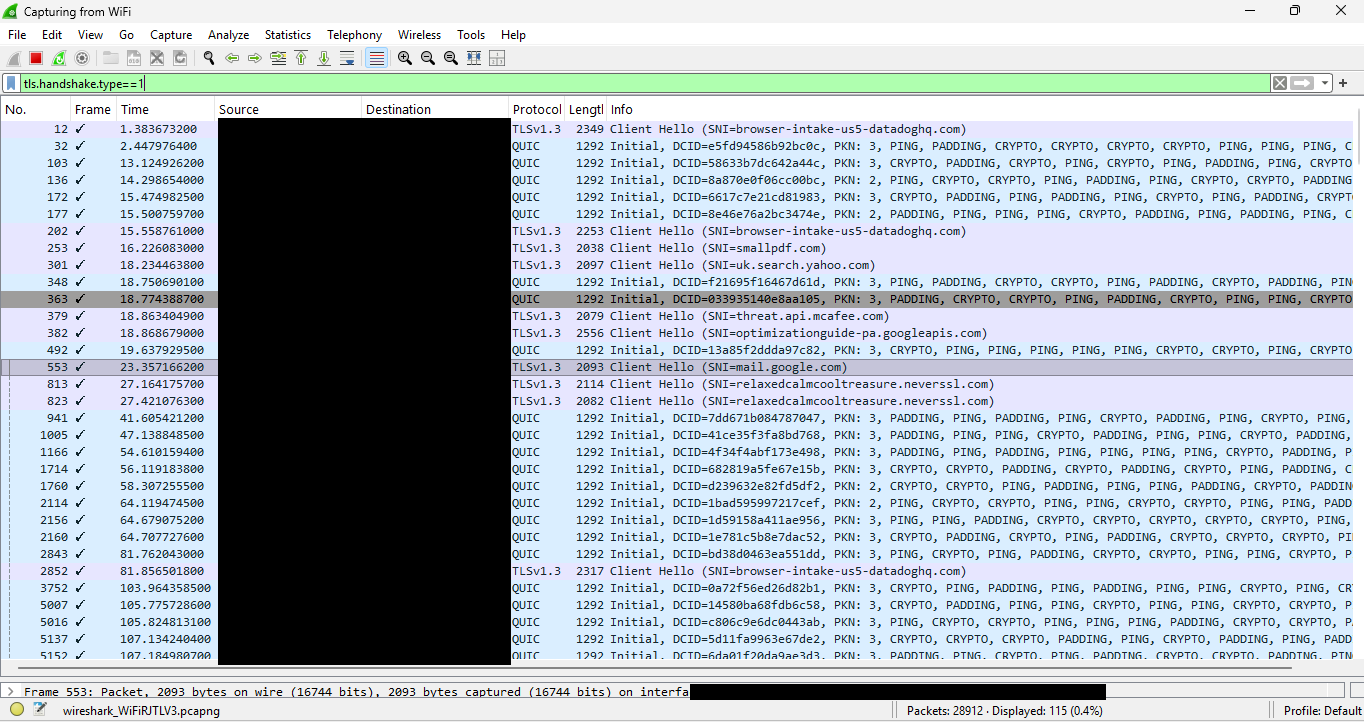
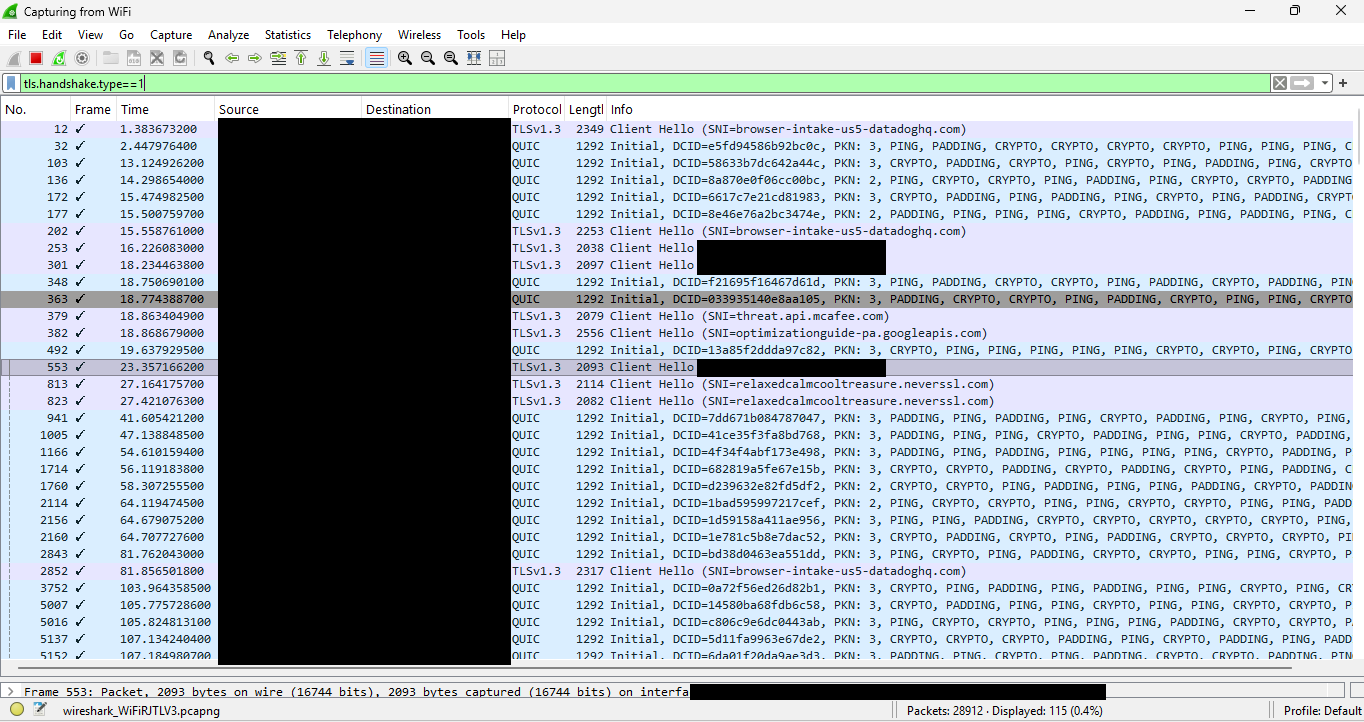
Add files via upload

Changed region(s): [[0.4927, 0.3352, 0.6466, 0.3961], [0.4927, 0.4875, 0.6466, 0.5485]]

diff --git a/README.md b/README.md
@@ -1,12 +1,14 @@
-What a Wireshark capture of my own laptop taught me about SOC work
+# What a Wireshark capture of my own laptop taught me about SOC work
 
 *Week 1 of my 90-day SOC analyst plan*
+
+By **Muhammad Ahmed Kamal** · [GitHub](https://github.com/Muhammad-Ahmed-Kamal)
 
 I spent my first week on networking fundamentals. The most useful part
 wasn't a course room. It was capturing my own traffic on a normal home
 network and asking what each pattern meant.
 
-1\. HTTPS hides content, not destinations
+## 1. HTTPS hides content, not destinations
 
 I visited a plain-HTTP test site (neverssl.com) and an HTTPS site in the
 same capture. Chrome itself warned me before sending anything.
@@ -24,12 +26,12 @@ shows.
 ***Figure 2.** The neverssl.com page as rendered by Chrome, flagged "Not
 secure".*
 
-Filtering for http showed the request and the server's reply as plain,
+Filtering for `http` showed the request and the server's reply as plain,
 readable packets.
 
 ![Wireshark packet list filtered to HTTP showing a GET and an HTTP 200 OK](fig03.png)
 
-***Figure 3.** The http filter: a GET request and the server's 200 OK
+***Figure 3.** The `http` filter: a GET request and the server's 200 OK
 response.*
 
 ![Wireshark HTTP packet list with GET, 301 Moved Permanently and 200 OK responses](fig04.png)
@@ -63,15 +65,15 @@ server packet, 1 turn.*
 ***Figure 8.** Raw bytes of the GET request: Host, User-Agent and Accept
 headers, all in cleartext.*
 
-By contrast, the same http filter on a browsing session that was
+By contrast, the same `http` filter on a browsing session that was
 entirely HTTPS returned nothing to read.
 
 ![Wireshark with http filter applied and an empty packet list](fig09.png)
 
-***Figure 9.** The http filter during an HTTPS-only session: empty.*
+***Figure 9.** The `http` filter during an HTTPS-only session: empty.*
 
 For the HTTPS connections, the content was encrypted. But filtering on
-tls.handshake.type==1 showed the destination domain of every connection
+`tls.handshake.type==1` showed the destination domain of every connection
 in the ClientHello's SNI field, sent in plaintext. A SOC can log or
 block by domain without decrypting anything, and an unfamiliar domain is
 a natural place to start an investigation.
@@ -81,7 +83,7 @@ a natural place to start an investigation.
 ***Figure 10.** TLS ClientHello packets: the SNI field names each
 destination even though the sessions are encrypted.*
 
-2\. A top talker isn't automatically suspicious
+## 2. A top talker isn't automatically suspicious
 
 In Statistics → Conversations, the Ethernet tab was dominated by one
 pair: my machine and my router, which makes sense because everything
@@ -112,14 +114,14 @@ beaconing).
 ***Figure 13.** Conversations, IPv6 tab sorted by bytes: the top talker
 is long-lived but low-volume.*
 
-3\. DNS visibility is shrinking
+## 3. DNS visibility is shrinking
 
-My dns filter showed queries and responses, each response paired to its
+My `dns` filter showed queries and responses, each response paired to its
 query by transaction ID, and some responses carrying several answers.
 
 ![Wireshark packet list filtered to DNS](fig14.png)
 
-***Figure 14.** The dns filter: standard queries and their responses.*
+***Figure 14.** The `dns` filter: standard queries and their responses.*
 
 ![Wireshark packet details showing UDP and DNS layers](fig15.png)
 
@@ -144,10 +146,10 @@ behavior and compare against a different network.
 
 ![Wireshark packet list filtered to TCP retransmissions](fig17.png)
 
-***Figure 17.** tcp.analysis.retransmission: repeated retransmissions on
+***Figure 17.** `tcp.analysis.retransmission`: repeated retransmissions on
 port 53.*
 
-4\. Know your tooling's quirks
+## 4. Know your tooling's quirks
 
 About two-thirds of my packets showed up under an 802.1Q VLAN tag, on a
 home network with no VLANs. This is most likely an artifact of the
@@ -174,7 +176,7 @@ the capture was running.*
 
 ![Wireshark with arp filter applied and an empty packet list](fig21.png)
 
-***Figure 21.** The arp filter on that capture: empty.*
+***Figure 21.** The `arp` filter on that capture: empty.*
 
 With the capture started first, the ARP broadcasts showed up. Wireshark
 only sees what happens while it's recording.
@@ -184,12 +186,12 @@ only sees what happens while it's recording.
 ***Figure 22.** Capture started first: ARP "Who has ...? Tell ..."
 broadcasts.*
 
-Filters I'm adding to my toolkit
+## Filters I'm adding to my toolkit
 
-contains, matches (regex), in (e.g. tcp.port in {80 443 8080}), and
-upper()/lower() for case-insensitive hunting, which are what you reach
+`contains`, `matches` (regex), `in` (e.g. `tcp.port in {80 443 8080}`), and
+`upper()`/`lower()` for case-insensitive hunting, which are what you reach
 for when you have a vague lead instead of an exact value.
 
-Next
+## Next
 
 Week 2: Windows event logs and Sysmon.
